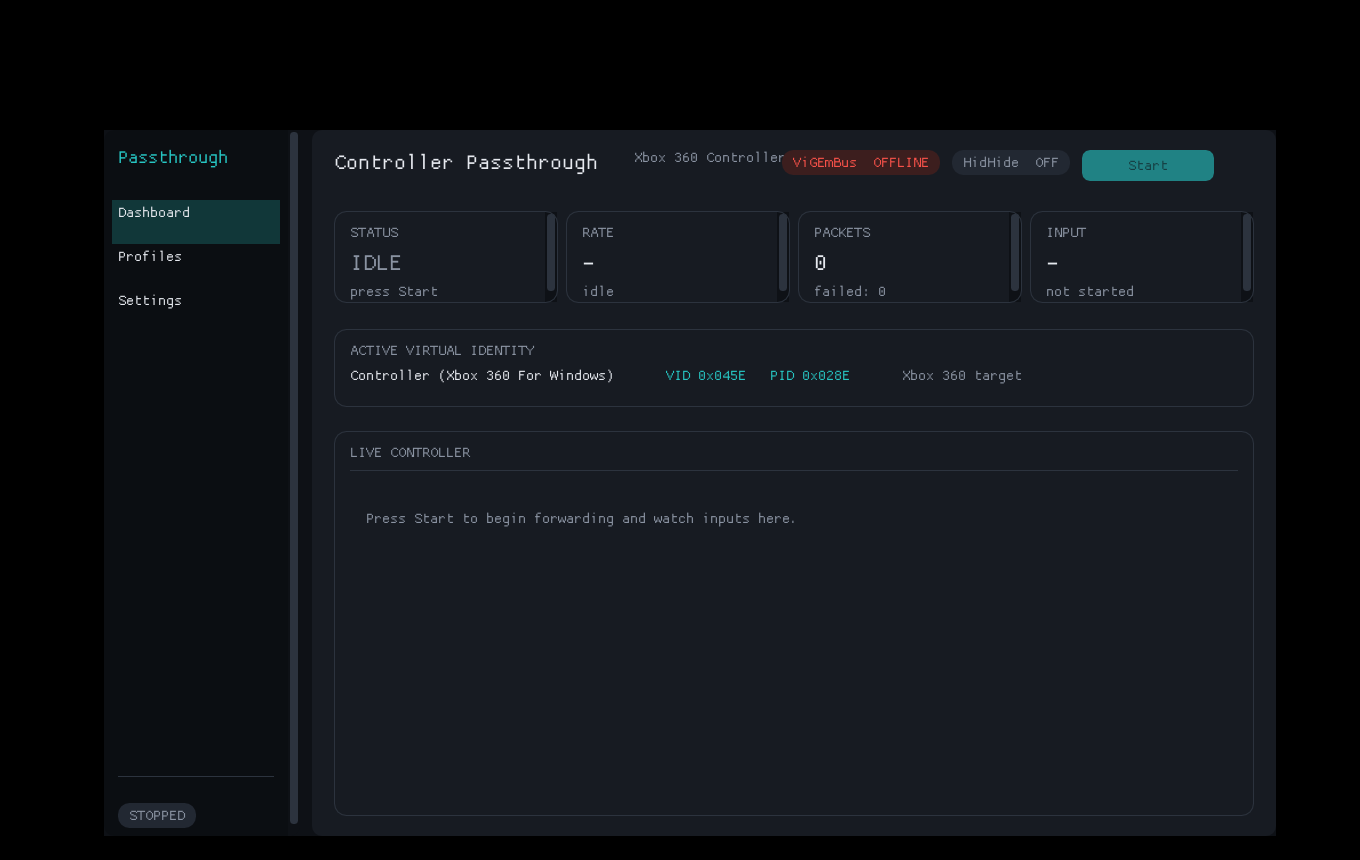
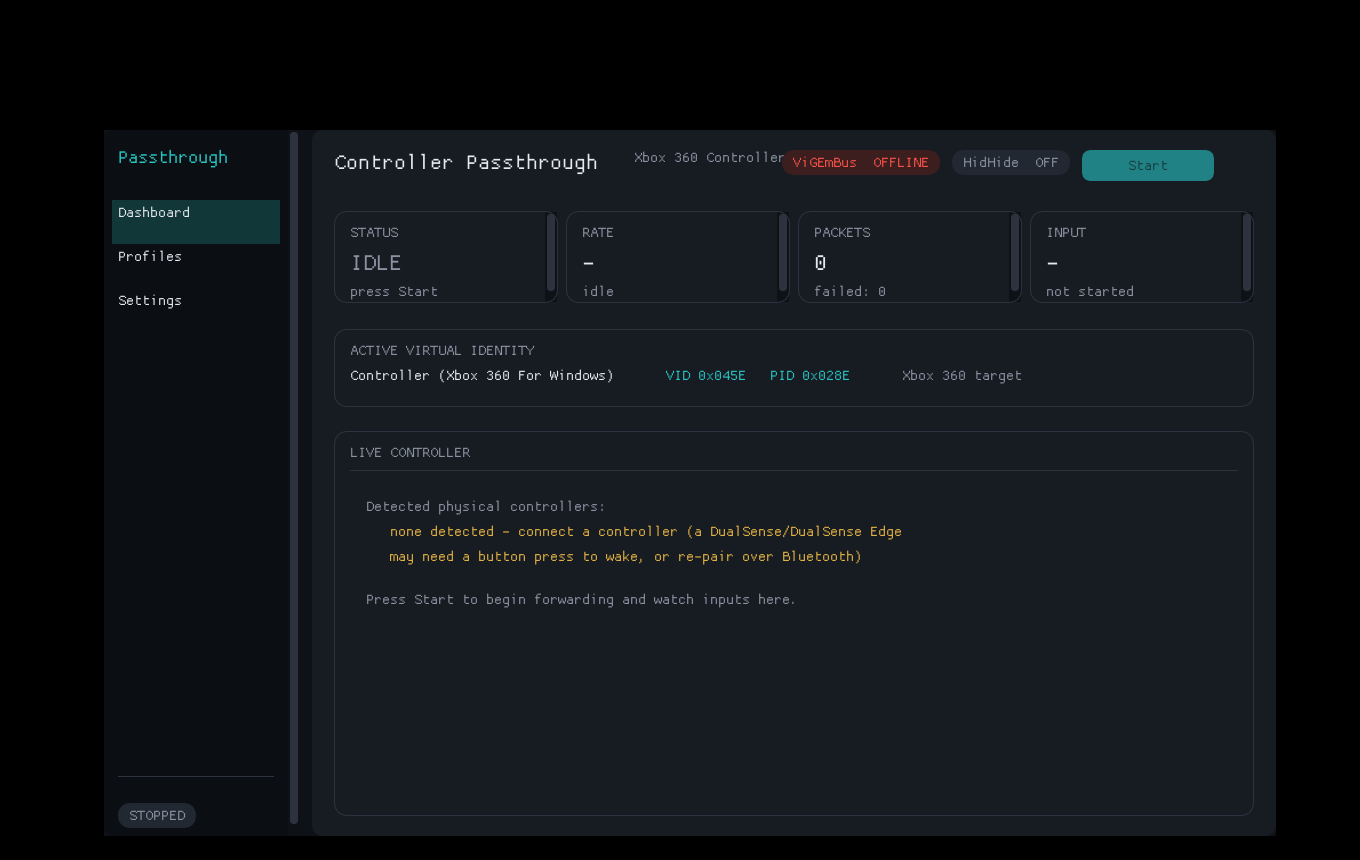
Show detected physical controllers in the GUI (idle)
The menu/dashboard previously only reflected XInput slots, which never list a
DualSense (it's HID, not XInput) - making users think the pad wasn't detected.
Add DS4HidReader::ListDetectedControllers() and show the detected HID pads (and
a DualSense wake/pairing hint) on the idle dashboard, plus surface the HidHide
cloak status message while running.

Changed region(s): [[0.2779, 0.5744, 0.6485, 0.6651], [0.4015, 0.6953, 0.4941, 0.7256], [0.525, 0.6953, 0.5559, 0.7256]]

diff --git a/src/gui_main.cpp b/src/gui_main.cpp
@@ -126,6 +126,8 @@ struct AppState {
     int  pollHz  = 1000;
     int  xslot   = 0;
     bool hidHide = true;
+    std::vector<std::string> detected;   // physical controllers found while idle
+    double lastScan = -1000.0;
 };
 
 static bool BeginCard(const char* id, ImVec2 size) {
@@ -206,7 +208,8 @@ static void DrawHeader(AppState& app, ViGEmLoader& vigem, HIDMaestroHelper& maes
     ImGui::PopStyleColor(4);
 }
 
-static void DrawDashboard(HIDMaestroHelper& maestro, const EngineLiveState& s, bool running) {
+static void DrawDashboard(HIDMaestroHelper& maestro, const EngineLiveState& s, bool running,
+                          const std::vector<std::string>& detected) {
     const auto& prof = maestro.GetActiveProfile();
 
     // ── Stat cards row ────────────────────────────────────────────────────────
@@ -260,7 +263,23 @@ static void DrawDashboard(HIDMaestroHelper& maestro, const EngineLiveState& s, b
     ImGui::Separator();
 
     if (!running) {
-        ImGui::Dummy(ImVec2(0, 20));
+        ImGui::Dummy(ImVec2(0, 8));
+        ImGui::PushStyleColor(ImGuiCol_Text, theme::v4(theme::TEXT_MUTED));
+        ImGui::TextUnformatted("  Detected physical controllers:");
+        ImGui::PopStyleColor();
+        if (detected.empty()) {
+            ImGui::PushStyleColor(ImGuiCol_Text, theme::v4(theme::WARN_AMBER));
+            ImGui::TextUnformatted("     none detected - connect a controller (a DualSense/DualSense Edge");
+            ImGui::TextUnformatted("     may need a button press to wake, or re-pair over Bluetooth)");
+            ImGui::PopStyleColor();
+        } else {
+            for (const auto& d : detected) {
+                ImGui::PushStyleColor(ImGuiCol_Text, theme::v4(theme::ACCENT));
+                ImGui::Text("     - %s", d.c_str());
+                ImGui::PopStyleColor();
+            }
+        }
+        ImGui::Dummy(ImVec2(0, 8));
         ImGui::PushStyleColor(ImGuiCol_Text, theme::v4(theme::TEXT_MUTED));
         ImGui::TextUnformatted("  Press Start to begin forwarding and watch inputs here.");
         ImGui::PopStyleColor();
@@ -442,6 +461,17 @@ static void RenderFrame(AppState& app, ViGEmLoader& vigem, HIDMaestroHelper& mae
     const EngineLiveState s = engine.Snapshot();
     const bool running = engine.IsRunning();
 
+    // While idle, refresh the detected-controller list about once a second so
+    // the user can confirm their pad is seen before pressing Start.  (Skip while
+    // running: the device may be intentionally cloaked and thus not enumerable.)
+    if (!running) {
+        double now = ImGui::GetTime();
+        if (now - app.lastScan > 1.0) {
+            app.detected = DS4HidReader::ListDetectedControllers();
+            app.lastScan = now;
+        }
+    }
+
     const ImGuiViewport* vp = ImGui::GetMainViewport();
     ImGui::SetNextWindowPos(vp->WorkPos);
     ImGui::SetNextWindowSize(vp->WorkSize);
@@ -462,10 +492,15 @@ static void RenderFrame(AppState& app, ViGEmLoader& vigem, HIDMaestroHelper& mae
         ImGui::TextWrapped("%s", s.errorMessage);
         ImGui::PopStyleColor();
     }
+    if (running && s.cloakMessage[0]) {
+        ImGui::PushStyleColor(ImGuiCol_Text, theme::v4(theme::TEXT_MUTED));
+        ImGui::TextWrapped("%s", s.cloakMessage);
+        ImGui::PopStyleColor();
+    }
     ImGui::Dummy(ImVec2(0, 8));
 
     switch (app.view) {
-        case 0: DrawDashboard(maestro, s, running); break;
+        case 0: DrawDashboard(maestro, s, running, app.detected); break;
         case 1: DrawProfiles(maestro, running);     break;
         case 2: DrawSettings(app, vigem, engine, running); break;
     }

diff --git a/src/ds4_hid_reader.h b/src/ds4_hid_reader.h
@@ -41,6 +41,7 @@ extern "C" {
 #include <setupapi.h>
 #include <devguid.h>
 #include <cstdint>
+#include <cstdio>
 #include <string>
 #include <vector>
 #include <algorithm>
@@ -365,6 +366,21 @@ public:
 
         s.valid = true;
         return true;
+    }
+
+    // Human-readable names of the HID gamepads/joysticks currently detected,
+    // for display in a UI.  Does not open a device for input.  A controller that
+    // is actively cloaked by HidHide and not accessible to this process may not
+    // appear (HidHide blocks the attribute-query CreateFile too).
+    static std::vector<std::string> ListDetectedControllers() {
+        std::vector<std::string> out;
+        for (const auto& c : EnumerateCandidates()) {
+            char line[192];
+            std::snprintf(line, sizeof(line), "%s  (VID 0x%04X  PID 0x%04X)",
+                          c.friendlyName, c.vid, c.pid);
+            out.emplace_back(line);
+        }
+        return out;
     }
 
 private:
